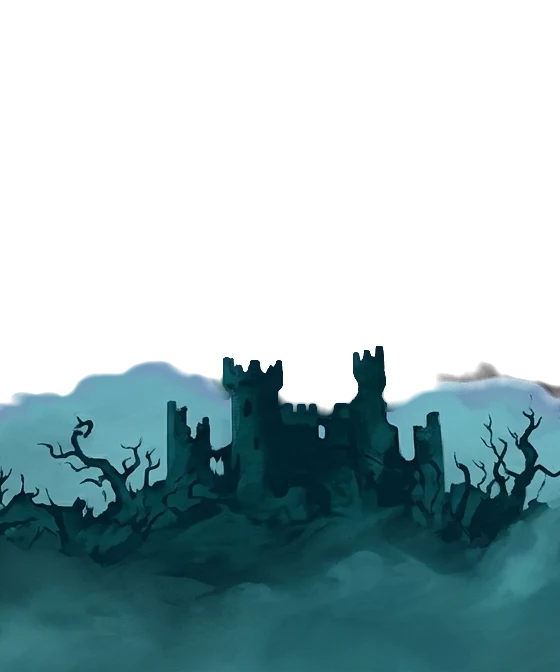
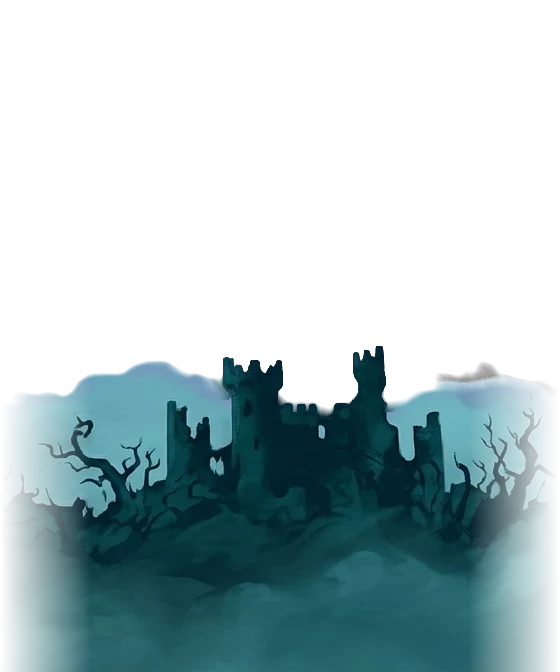
fix(legions): The Wake woods and ruins at full size, moon behind the trees, castle edges faded
Claude-Session: https://claude.ai/code/session_018q2YH8BR1Rpzfq7GRCQaXX

Changed region(s): [[0.85, 0.5312, 1.0, 1.0], [0.0, 0.5625, 0.1518, 1.0]]

diff --git a/packages/legions/src/courts.ts b/packages/legions/src/courts.ts
@@ -1549,7 +1549,7 @@ function theWake(scene: Scene, board: Board): CourtSet {
   const GROUND = -0.02;
   // The painted world round the board: a sky dome, a ring of far woods with the ruins in one place, great dead trees at several depths.
   const R = 34;
-  const BAND = 9.5;
+  const BAND = 21;
   const disposables: { dispose(): void }[] = [];
   const rng = (i: number) => {
     const x = Math.sin(i * 91.7) * 43758.5453;
@@ -1638,7 +1638,7 @@ function theWake(scene: Scene, board: Board): CourtSet {
     woodsMat.needsUpdate = true;
   });
   const woods = new Mesh(new CylinderGeometry(R, R, BAND, 96, 1, true), woodsMat);
-  woods.position.y = GROUND + BAND / 2 - 0.3;
+  woods.position.y = GROUND + BAND / 2 - 1.2;
   woods.renderOrder = -8;
   const castleMat = new MeshBasicMaterial({ fog: false, transparent: true, depthWrite: false, color: 0xe0eeee });
   void texture(art("wake", "woods-castle.webp")).then((t) => {
@@ -1646,7 +1646,7 @@ function theWake(scene: Scene, board: Board): CourtSet {
     castleMat.needsUpdate = true;
   });
   const castle = new Mesh(new PlaneGeometry(BAND * (560 / 672), BAND), castleMat);
-  castle.position.set(0, GROUND + BAND / 2 - 0.3, -(R - 0.6));
+  castle.position.set(0, GROUND + BAND / 2 - 1.2, -(R - 0.6));
   castle.renderOrder = -7;
   // The graveyard's soil to the woods, lost in mist.
   const soilMap = dirtTexture(900);
@@ -1691,7 +1691,7 @@ function theWake(scene: Scene, board: Board): CourtSet {
   });
   const moonSprite = new Sprite(moonMat);
   moonSprite.scale.setScalar(9);
-  moonSprite.renderOrder = -6;
+  moonSprite.renderOrder = -9;
   group.add(moonSprite);
   disposables.push(moonMat);
 
@@ -1824,7 +1824,7 @@ function theWake(scene: Scene, board: Board): CourtSet {
     disposables.push(s.material);
   }
   const halo = softSprite(0x9ae8ff, 0.3, 26, 26, true);
-  halo.renderOrder = -6;
+  halo.renderOrder = -9;
   group.add(halo);
   disposables.push(halo.material);
 
@@ -1890,7 +1890,7 @@ function theWake(scene: Scene, board: Board): CourtSet {
       halo.material.opacity = 0.26 + 0.05 * Math.sin(s * 0.5);
       // Round the sky behind the black side, a little up and down.
       const az = Math.PI + Math.sin(s * 0.0035) * 2.4;
-      const el = 0.3 + 0.05 * Math.sin(s * 0.011);
+      const el = 0.5 + 0.06 * Math.sin(s * 0.011);
       moonSprite.position.set(Math.sin(az) * Math.cos(el) * 62, GROUND + Math.sin(el) * 62, Math.cos(az) * Math.cos(el) * 62);
       halo.position.copy(moonSprite.position);
       moon.position.copy(moonSprite.position).multiplyScalar(0.3);
